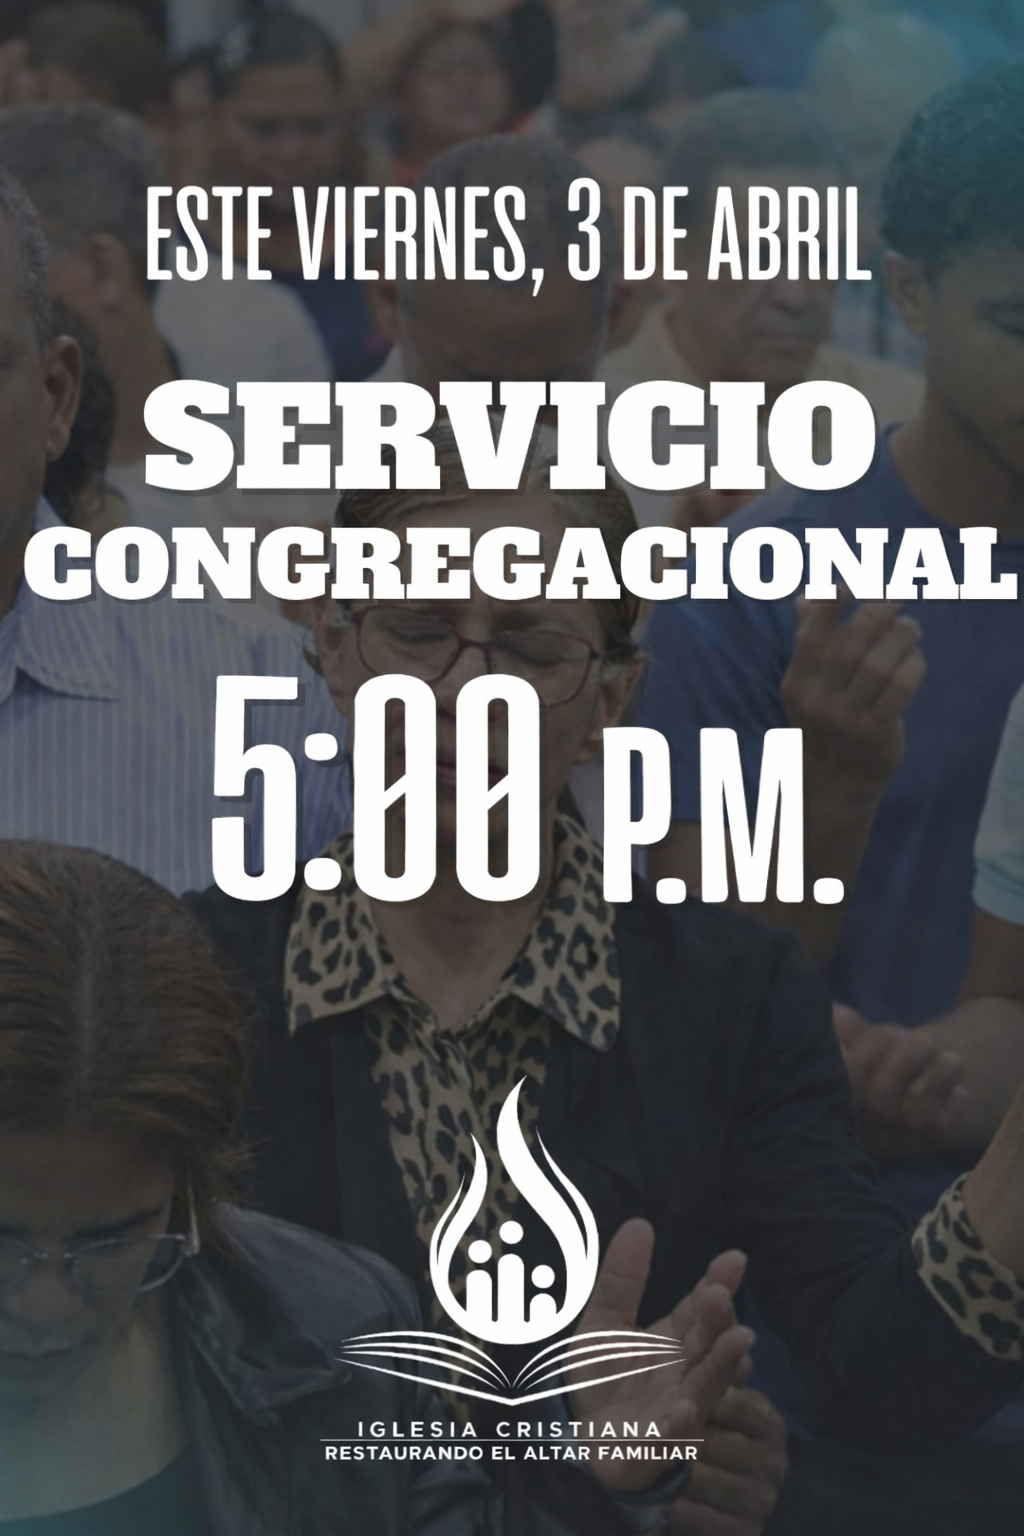
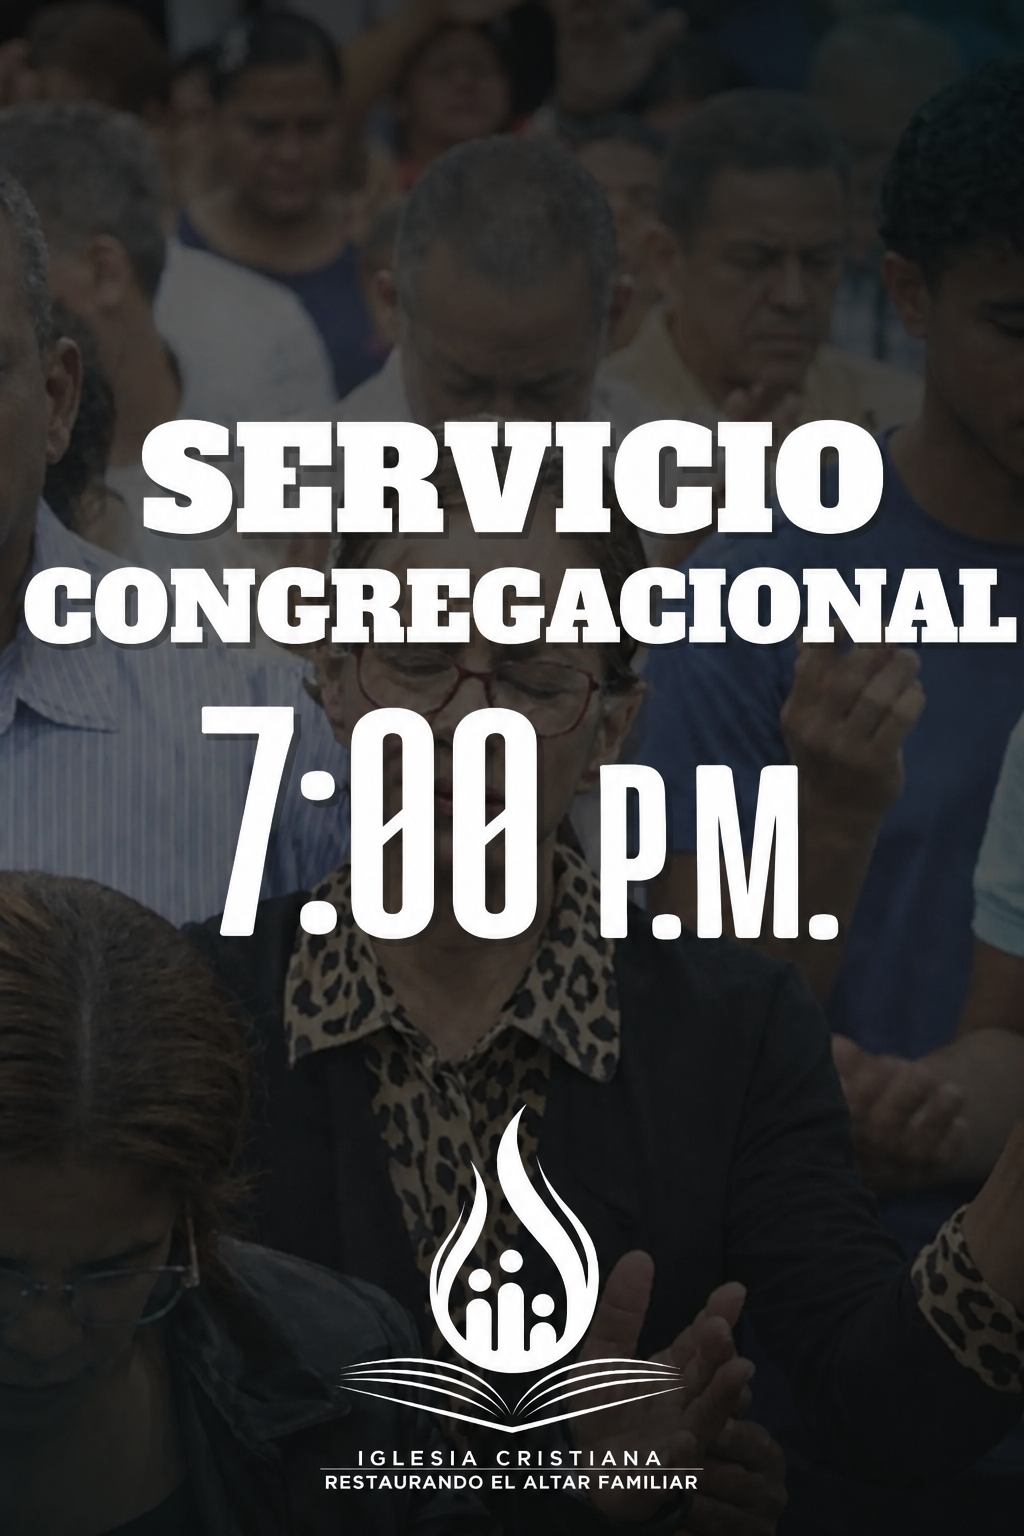
Fix image imports and update livestream link

diff --git a/src/components/Hero.jsx b/src/components/Hero.jsx
@@ -1,13 +1,13 @@
-import { motion, AnimatePresence } from "framer-motion"
+import { motion } from "framer-motion"
 import { useEffect, useState } from "react"
 
-import heroImage1 from "../assets/images/church.jpg"
-import heroImage2 from "../assets/images/gallery5.jpg"
-import heroImage3 from "../assets/images/gallery2.jpg"
-import heroImage4 from "../assets/images/gallery4.jpg"
-import heroImage5 from "../assets/images/gallery6.jpg"
+import heroImage1 from "../assets/images/church.webp"
+import heroImage2 from "../assets/images/gallery5.webp"
+import heroImage3 from "../assets/images/gallery2.webp"
+import heroImage4 from "../assets/images/gallery4.webp"
+import heroImage5 from "../assets/images/gallery6.webp"
 
-import logoImg from "../assets/images/logo.png"
+import logoImg from "../assets/images/logo.webp"
 
 export default function Hero() {
 
@@ -20,12 +20,21 @@ export default function Hero() {
   ]
 
   const [currentImage, setCurrentImage] = useState(0)
+  const [fade, setFade] = useState(true)
 
   useEffect(() => {
 
     const interval = setInterval(() => {
 
-      setCurrentImage((prev) => (prev + 1) % images.length)
+      setFade(false)
+
+      setTimeout(() => {
+
+        setCurrentImage((prev) => (prev + 1) % images.length)
+
+        setFade(true)
+
+      }, 1000)
 
     }, 9000)
 
@@ -42,20 +51,19 @@ export default function Hero() {
 
       {/* Background Slideshow */}
 
-      <AnimatePresence mode="wait">
-
-        <motion.img
-          key={currentImage}
-          src={images[currentImage]}
-          alt="Iglesia"
-          initial={{ opacity: 0, scale: 1.1 }}
-          animate={{ opacity: 1, scale: 1.15 }}
-          exit={{ opacity: 0 }}
-          transition={{ duration: 2 }}
-          className="absolute inset-0 w-full h-full object-cover"
-        />
-
-      </AnimatePresence>
+      <motion.img
+        src={images[currentImage]}
+        alt="Iglesia"
+        animate={{
+          opacity: fade ? 1 : 0,
+          scale: 1.15,
+        }}
+        transition={{
+          opacity: { duration: 1.5 },
+          scale: { duration: 10 },
+        }}
+        className="absolute inset-0 w-full h-full object-cover"
+      />
 
       {/* Overlay */}
 
@@ -80,7 +88,7 @@ export default function Hero() {
 
         {/* Text */}
 
-        <h1 className="text-2xl md:text-4xl font-black text-white leading-tight mb-8 max-w-5xl mx-auto tracking-tight">
+        <h1 className="text-2xl md:text-4xl font-bold text-white leading-tight mb-8 max-w-3xl mx-auto tracking-tight">
 
           Más que una iglesia,
           una familia transformada por Dios.
@@ -99,7 +107,6 @@ export default function Hero() {
             Ver Transmisión
 
           </a>
-
 
           <a
             href="#nosotros"

diff --git a/src/components/Flyers.jsx b/src/components/Flyers.jsx
@@ -5,33 +5,11 @@ import { Autoplay } from "swiper/modules"
 
 import "swiper/css"
 
-import ViernesImg from "../assets/images/Eventodamas.webp"
-import SabadoImg from "../assets/images/Domingo.webp"
-import DomingoImg from "../assets/images/Martes.webp"
+import ViernesImg from "../assets/images/Martes.webp"
+import SabadoImg from "../assets/images/Miercoles.webp"
+import DomingoImg from "../assets/images/Viernes.webp"
 
 const flyers = [
-  {
-    title: "Mujeres Indetenibles",
-    day: "Sábado",
-    time: "4:30 PM - 6:30 PM",
-
-    description:
-      "Un espacio especial donde las mujeres pueden fortalecer su fe, compartir experiencias, crecer espiritualmente y descubrir el propósito de Dios para sus vidas en una comunidad llena de amor y apoyo.",
-
-    image: ViernesImg,
-  },
-
-  {
-    title: "Escuela Dominical",
-    day: "Domingo",
-    time: "8:00 AM - 11:30 AM",
-
-    description:
-      "Nuestra reunión principal de domingo donde toda la familia se reúne para adorar, aprender y compartir juntos.",
-
-    image: SabadoImg,
-  },
-
   {
     title: "Formación de liderazgo",
     day: "Martes",
@@ -39,6 +17,28 @@ const flyers = [
 
     description:
       "Un tiempo de formación y crecimiento espiritual diseñado para preparar líderes comprometidos con el llamado de Dios. Cada encuentro es una oportunidad para aprender, servir y fortalecer el propósito ministerial en una atmósfera de fe y enseñanza.",
+
+    image: ViernesImg,
+  },
+
+  {
+    title: "Miércoles de Ayuno",
+    day: "Miércoles",
+    time: "9:30 AM - 12:00 PM",
+
+    description:
+      "Un tiempo especial para buscar la presencia de Dios a través del ayuno y la oración. Cada miércoles nos reunimos para fortalecer nuestra fe, escuchar Su voz y creer juntos por milagros, restauración y crecimiento espiritual.",
+
+    image: SabadoImg,
+  },
+
+  {
+    title: "Servicio Congregacional",
+    day: "Viernes",
+    time: "7:00 PM - 9:00 PM",
+
+    description:
+      "Un servicio lleno de adoración, palabra y comunión en la presencia de Dios. Ven junto a tu familia y disfruta de un tiempo especial donde creemos que Dios transformará vidas, restaurará corazones y traerá esperanza a cada hogar.",
 
     image: DomingoImg,
   },

diff --git a/src/components/Services.jsx b/src/components/Services.jsx
@@ -71,11 +71,14 @@ export default function Services() {
 
             <motion.div
               key={index}
-              initial={{ opacity: 0, y: 40 }}
+              initial={{ opacity: 0, y: 80 }}
               whileInView={{ opacity: 1, y: 0 }}
-              transition={{ duration: 0.6 }}
+              transition={{
+                duration: 0.7,
+                delay: index * 0.12,
+              }}
               viewport={{ once: true }}
-              className="bg-white/5 border border-white/10 rounded-3xl p-8 hover:scale-105 transition duration-300 backdrop-blur-lg"
+              className="bg-white/5 border border-white/10 rounded-3xl p-8 hover:scale-105 hover:-translate-y-2 hover:border-yellow-500/30 hover:shadow-yellow-500/10 hover:shadow-2xl transition-all duration-500 backdrop-blur-lg"
             >
 
               <p className="text-yellow-400 uppercase tracking-[3px] mb-3">

diff --git a/src/App.jsx b/src/App.jsx
@@ -4,8 +4,8 @@ import Services from "./components/Services"
 import Flyers from "./components/Flyers"
 import Live from "./components/Live"
 import PrayerForm from "./components/PrayerForm"
-import Gallery from "./components/Gallery"
 import Footer from "./components/Footer"
+import Gallery from "./components/Gallery"
 
 export default function App() {
   return (

diff --git a/src/components/Live.jsx b/src/components/Live.jsx
@@ -40,7 +40,7 @@ export default function Live() {
 
               <iframe
                 className="w-full h-full"
-                src="https://www.youtube.com/embed/vDCN4GwkTN0"
+                src="https://www.youtube.com/embed/Wdlts_up0z0"
                 title="YouTube Live"
                 allowFullScreen
               ></iframe>
